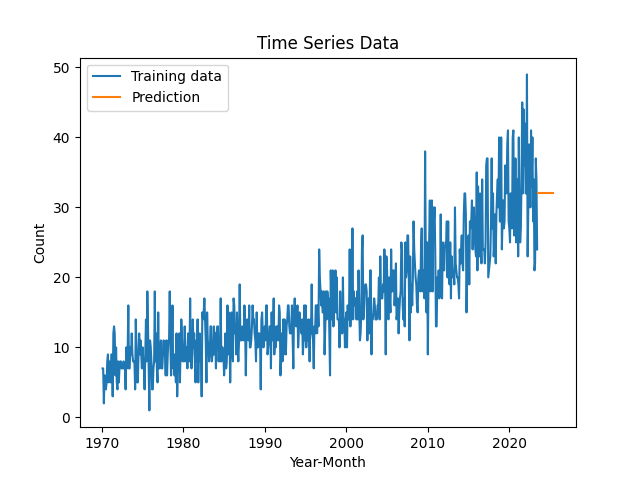
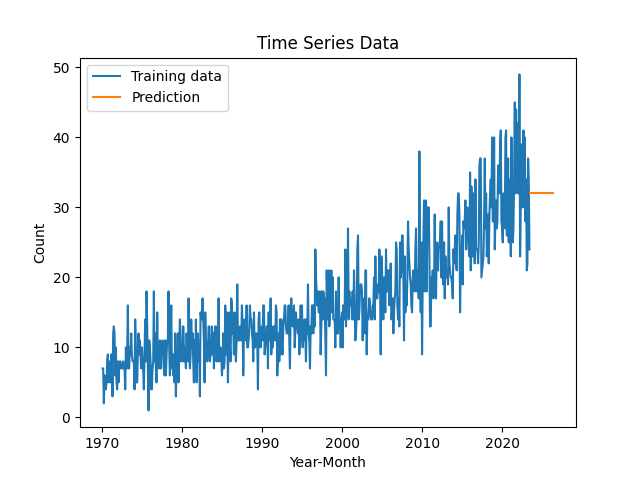
Prettify - creating graphs for report feedback

diff --git a/ml-mindsdb/MindsDBTut/poly_arima_poc.py b/ml-mindsdb/MindsDBTut/poly_arima_poc.py
@@ -5,9 +5,10 @@ import pandas as pd
 import matplotlib.pyplot as plt
 import matplotlib.dates as mdates
 
-
-model_name = 'time_poly_model.pkl'
-poly_model = pickle.load(open('venv/resources/polynomial_regression_model.sav', 'rb'))
+# option = "quad"
+option = "data"
+model_name = 'poly_model.pkl'
+poly_model = pickle.load(open('venv/resources/polynomial_regression_model_{}.sav'.format(option), 'rb'))
 
 p, d, q = 2, 2, 2
 # p - how many previous values should be considered - Auto Regressive
@@ -16,13 +17,11 @@ p, d, q = 2, 2, 2
 
 
 def rally():
-    data = pd.read_csv("venv/resources/time_series_poly.csv")[['yearmonth', 'count', 'class', 'poly_pred', 'res_noise']]
+    data = pd.read_csv("venv/resources/time_series_{}_poly.csv".format(option))[['yearmonth', 'count', 'poly_pred', 'res_noise']]
     data['yearmonth'] = pd.to_datetime(data['yearmonth'], format='%Y-%m-%d')
     train_data = data[['yearmonth', 'res_noise']].set_index('yearmonth')
-    # data = data.set_index('yearmonth')
-    # print(data)
 
-    train_size = 0.85
+    train_size = 1
     split_idx = round(len(train_data) * train_size)
 
     train = train_data.iloc[:split_idx]
@@ -70,8 +69,15 @@ def load_model(data, train, test, model=None):
 
     # the start value is dependent on the output value of 'd'
     predictions, conf_int = model.predict_in_sample(start=d, end=672, return_conf_int=True)
-    # lower_bound = conf_int[:, 0]
-    # upper_bound = conf_int[:, 1]
+
+    ### PLOT NOISE GRAPH
+    plt.plot(data['yearmonth'][:-1], data['res_noise'][:-1], label="Residual noise")
+    plt.plot(predictions, label="Predict noise")
+    plt.legend()
+    plt.title("Graph showing Residual noise vs Predicted Noise")
+    plt.xlabel("Year-Month")
+    plt.ylabel("Noise")
+    plt.show()
 
     data = data.set_index('yearmonth')
     pred = pd.DataFrame(predictions, columns=['pred_noise'])
@@ -80,7 +86,7 @@ def load_model(data, train, test, model=None):
     pred['upper'] = [num[1] for num in conf_int]
 
     new_data = new_dataframe(data, pred)
-    new_data.to_csv("venv/resources/results_poly_auto_arima.csv")
+    new_data.to_csv("venv/resources/results_poly_arima_{}.csv".format(option))
     plot_results(new_data)
 
 
@@ -91,14 +97,14 @@ def plot_results(new_data):
              label="Prediction")                                     # show predictions
     plt.plot(new_data['yearmonth'], new_data['poly_pred'],
              label="Polynomial Regression line")                     # show polynomial regression
-    # plt.fill_between(new_data['yearmonth'],
-    #                  new_data['pred_upper'],
-    #                  new_data['pred_lower'],
-    #                  color='lightgray', alpha=0.7,
-    #                  label='Confidence Interval')
+    plt.fill_between(new_data['yearmonth'],
+                     new_data['pred_upper'],
+                     new_data['pred_lower'],
+                     color='lightgray', alpha=0.7,
+                     label='Confidence Interval')
     plt.ylabel("Count")
     plt.xlabel("Year-Month")
-    plt.title('Time Series Quad Data')
+    plt.title('Time Series Data - Polynomial & ARIMA Model')
 
     years_locator = mdates.YearLocator()
     years_formatter = mdates.DateFormatter('%Y')
@@ -123,12 +129,11 @@ def new_dataframe(data, pred):
         elif date in data.index and date not in pred.index:
             nd.append([date] + list(data.loc[date]) + [0, 0, 0])
         elif date not in data.index and date in pred.index:
-            nd.append([date, pd.NA, pd.NA, pd.NA, pd.NA] + list(pred.loc[date]))
+            nd.append([date, pd.NA, pd.NA, pd.NA] + list(pred.loc[date]))
         else:
             print("Oh no!")
     new_data = pd.DataFrame(nd,
-                            columns=['yearmonth', 'count', 'class', 'poly_pred', 'res_noise',
-                                     'pred_noise', 'lower', 'upper'])
+                            columns=['yearmonth', 'count', 'poly_pred', 'res_noise', 'pred_noise', 'lower', 'upper'])
     new_data['poly_pred'] = new_data['yearmonth'].apply(date_to_poly)
     new_data['count'].fillna(0, inplace=True)
     new_data['pred_count'] = [sum(cols) for cols in zip(new_data['poly_pred'], new_data['pred_noise'])]

diff --git a/ml-mindsdb/MindsDBTut/arima_poc.py b/ml-mindsdb/MindsDBTut/arima_poc.py
@@ -6,7 +6,8 @@ import matplotlib.dates as mdates
 
 
 def assemble():
-    data = pd.read_csv("venv/resources/time_series_quad.csv")[['yearmonth', 'count', 'class']]
+    # data = pd.read_csv("venv/resources/time_series_quad.csv")[['yearmonth', 'count', 'class']]
+    data = pd.read_csv("venv/resources/time_series_data.csv")[['yearmonth', 'count']]
     data['yearmonth'] = pd.to_datetime(data['yearmonth'], format='%Y-%m-%d')
     data = data[['yearmonth', 'count']].set_index('yearmonth')
     print(data)
@@ -23,9 +24,9 @@ def assemble():
 
 def build_model(train):
     model = auto_arima(train,
-                       start_p=2,           # how many previous values should be considered - Auto Regressive
-                       d=2,                 # number of times the data has been differenced to achieve stationarity - Integrated
-                       start_q=2,           # how many previous error terms should be considered - Moving Average
+                       start_p=1,           # how many previous values should be considered - Auto Regressive
+                       d=1,                 # number of times the data has been differenced to achieve stationarity - Integrated
+                       start_q=1,           # how many previous error terms should be considered - Moving Average
                        max_p=13,
                        max_d=13,
                        max_q=13,
@@ -42,7 +43,7 @@ def build_model(train):
 
     # print(model.summary())
     # model.plot_diagnostics().savefig('plot_diagnostics.png')
-    with open('time_quad_model_085.pkl', 'wb') as pkl:
+    with open('time_data_model_085.pkl', 'wb') as pkl:
         pickle.dump(model, pkl)
 
     return model
@@ -50,7 +51,7 @@ def build_model(train):
 
 def load_model(data, train, test, model=None):
     if model is None:
-        with open('time_quad_model.pkl', 'rb') as pkl:
+        with open('time_data_model_085.pkl', 'rb') as pkl:
             model = pickle.load(pkl)
     else:
         model = build_model(train)
@@ -68,11 +69,11 @@ def load_model(data, train, test, model=None):
     pred_df = pd.DataFrame(predictions)
     pred_df.to_csv("venv/resources/results_auto_arima.csv")
 
-    plt.plot(data, label="Test")
+    plt.plot(data[:-1], label="Test")
     plt.plot(pred_df, label="Prediction")
-    plt.fill_between(predictions.index[len(predictions) - 120:], lower_bound[len(predictions) - 120:],
-                     upper_bound[len(predictions) - 120:], color='lightgray', alpha=0.7,
-                     label='Confidence Interval')
+    # plt.fill_between(predictions.index[len(predictions) - 120:], lower_bound[len(predictions) - 120:],
+    #                  upper_bound[len(predictions) - 120:], color='lightgray', alpha=0.7,
+    #                  label='Confidence Interval')
 
     plt.ylabel("Count")
     plt.xlabel("Year-Month")

diff --git a/ml-mindsdb/MindsDBTut/polynomial_trend_poc.py b/ml-mindsdb/MindsDBTut/polynomial_trend_poc.py
@@ -8,9 +8,12 @@ from dateutil.relativedelta import relativedelta
 import pickle
 
 
+# option = "quad"
+option = "data"
+
+
 def unite():
-    # data = pd.read_csv("venv/resources/time_series_data.csv")[['yearmonth', 'count', 'class']]
-    data = pd.read_csv("venv/resources/time_series_quad.csv")[['yearmonth', 'count', 'class']]
+    data = pd.read_csv("venv/resources/time_series_{}.csv".format(option))[['yearmonth', 'count']]
     data['yearmonth'] = pd.to_datetime(data['yearmonth'], format='%Y-%m-%d')
     data = adjust_date_column(data)
     model = build_regression(data)
@@ -22,7 +25,7 @@ def normalised_noise(data, model):
     noise = model.predict(poly.fit_transform(pd.DataFrame(data['months'])))
     data['poly_pred'] = noise
     data['res_noise'] = data['count'] - data['poly_pred']
-    data.to_csv("venv/resources/time_series_poly.csv")
+    data.to_csv("venv/resources/time_series_{}_poly.csv".format(option))
     return data
 
 
@@ -34,6 +37,7 @@ def build_regression(data):
     x_train_df, x_test_df = pd.DataFrame(x_train), pd.DataFrame(x_test)
 
     poly = PolynomialFeatures(2)
+    # poly = PolynomialFeatures(3)
     x_train_poly, x_test_poly = poly.fit_transform(x_train_df), poly.fit_transform(x_test_df)
 
     lin = LinearRegression()
@@ -44,18 +48,20 @@ def build_regression(data):
 
     x_axis = [num for num in range(637)]
     y_axis = [lin.intercept_ + lin.coef_[1]*num + lin.coef_[2]*num**2 for num in x_axis]
+    # y_axis = [lin.intercept_ + lin.coef_[1]*num + lin.coef_[2]*num**2 + lin.coef_[3]*num**3 for num in x_axis]
 
     pred = lin.predict(x_test_poly)
 
     print(lin.score(x_test_poly, pd.DataFrame(y_test)))
 
-    # plt.scatter(x_test, pred, label='Prediction')
-    # plt.scatter(x_test, y_test, label="Actual")
-    # plt.plot(x_axis, y_axis, label="Formula", color='red')
-    # plt.legend()
-    # plt.show()
+    plt.scatter(x_test, pred, label='Prediction')
+    plt.scatter(x_test, y_test, label="Actual")
+    plt.plot(data['count'], alpha=0.6, label="Full data")
+    plt.plot(x_axis, y_axis, label="Formula", color='red')
+    plt.legend()
+    plt.show()
 
-    pickle.dump(lin, open('venv/resources/polynomial_regression_model.sav', 'wb'))
+    pickle.dump(lin, open('venv/resources/polynomial_regression_model_{}.sav'.format(option), 'wb'))
 
     return lin
 

diff --git a/ml-mindsdb/MindsDBTut/mindsdb_poc.py b/ml-mindsdb/MindsDBTut/mindsdb_poc.py
@@ -6,8 +6,10 @@ import pandas as pd
 
 
 model_name = 'poc_hiv_model_ori'
+# model_name = 'poc_hiv_model_quad'
 database_name = 'clickhouse_db'
 table_name = 'time_data'
+# table_name = 'time_quad'
 project_name = 'demo_poc'
 job_name = 'get_a_job_poc'
 
@@ -17,10 +19,11 @@ def organise():
     data = server.get_database(database_name).get_table(table_name)
     # connect_db(server)                # doesn't work yet, do via Browser UI
     # build_project(server)
-    # remove_model(server)
+    remove_model(server)
     build_poc(server, data)
     # query_poc(server, data)
     plot_model(server, data, query_poc(server, data))
+    model_details(server)
 
 
 def connect_db(server):
@@ -65,7 +68,9 @@ def build_poc(server, data):
         timeseries_options={
             'group': 'class',
             'order': 'yearmonth',
-            'horizon': 24
+            'horizon': 36,
+            'window': 12,
+            'model_name': 'auto'
         }
     )
     print("Create model \'{}\' executed".format(model_name))
@@ -122,6 +127,7 @@ def plot_model(server, data, results):
 
     time_data = time_data.sort_values('yearmonth')
     results = results.sort_values('yearmonth')
+    print(results)
 
     plt.plot(time_data["count"], label="Training data")
     # plt.plot(results["count_min"], label="Count_Min")
@@ -134,3 +140,12 @@ def plot_model(server, data, results):
     plt.legend()
     plt.savefig("results.png")
     plt.show()
+
+
+def model_details(server):
+    proj = server.get_project(project_name)
+    model = proj.get_model(model_name)
+
+    print(model.describe('info'))
+    print(model.describe('features'))
+    print(model.describe('model'))

diff --git a/ml-mindsdb/MindsDBTut/prophet_poc.py b/ml-mindsdb/MindsDBTut/prophet_poc.py
@@ -4,8 +4,8 @@ from matplotlib import pyplot as plt
 from prophet import Prophet
 
 
-# file_name = 'time_series_quad.csv'
-file_name = 'time_series_data.csv'
+file_name = 'time_series_quad.csv'
+# file_name = 'time_series_data.csv'
 
 
 def orchestrate():
@@ -29,7 +29,6 @@ def import_data():
 def build_model(train):
     model = Prophet()
     model.fit(train)
-
     pred = model.make_future_dataframe(periods=308, freq='MS')
     forecast = model.predict(pred)
     forecast.to_csv('venv/resources/prophet_results.csv')
